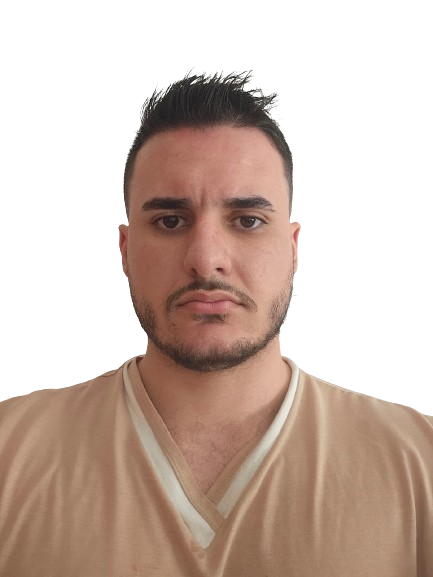
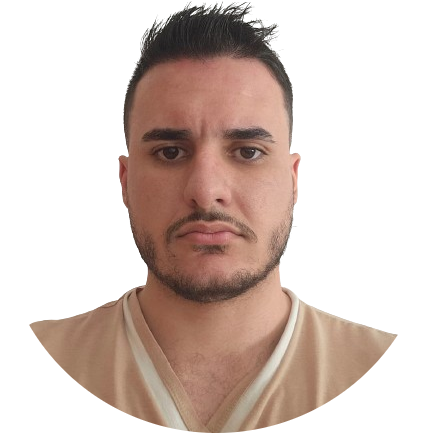
:heavy_plus_sign: Add framer-motion

diff --git a/components/Photo.jsx b/components/Photo.jsx
@@ -1,24 +1,63 @@
 "use client";
 
-// import { motion } from "framer-motion";
-import Image from "next/image";
+import { motion } from "framer-motion";
+import Image from 'next/image'
 
 const Photo = () => {
     return (
         <div className="w-full h-full relative">
-            <motion.div>
-                <div className="w-[298px] h-[298px] xl:w-[48px] xl:h-[498px]">
+            <motion.div
+                initial={{ opacity: 0 }}
+                animate={{
+                    opacity: 1, transition: { delay: 0.4, duration: 0.4, ease: 'easeIn' }
+                }}
+            >
+                {/* image */}
+                <motion.div
+                    initial={{ opacity: 0 }}
+                    animate={{
+                        opacity: 1, transition: { delay: 0.4, duration: 0.4, ease: 'easeInOut' }
+                    }}
+                    className="w-[298px] h-[298px] xl:w-[498px] xl:h-[498px] mix-blend-lighten absolute">
                     <Image
-                        src="assets/photo.png"
+                        src="/assets/photo.png"
                         priority
                         quality={100}
                         fill
                         alt=""
                         className="object-contain"
                     />
-                </div>
+                </motion.div>
+
+                {/* circle */}
+                <motion.svg className="w-[300px] xl:w-[506px] h-[300px] xl:h-[506px]"
+                    fill='transparent'
+                    viewBox="0 0 506 506"
+                    xmlns="http://www.w3.org/2000/svg"
+                >
+                    <motion.circle
+                        cx='253'
+                        cy='253'
+                        r='250'
+                        stroke='#00ff99'
+                        strokeWidth='4'
+                        strokeLinecap='round'
+                        strokeLinejoin='round'
+                        initial={{ strokeDasharray: "24 10 0 0" }}
+                        animate={{
+                            strokeDasharray: ["15 120 25 25", "16 25 92 72", "4 250 22 22"],
+                            rotate: [120, 360],
+                        }}
+                        transition={{
+                            duration: 20,
+                            repeat: Infinity,
+                            repeatType: "reverse",
+                        }}
+                    />
+                </motion.svg>
+
             </motion.div>
-        </div>
+        </div >
     )
 }
 

diff --git a/app/page.jsx b/app/page.jsx
@@ -4,6 +4,7 @@ import { FiDownload } from 'react-icons/fi'
 // Components
 import Social from '@/components/social'
 import Photo from '@/components/photo'
+import Stats from '@/components/stats'
 
 const Home = () => {
   return (
@@ -11,7 +12,7 @@ const Home = () => {
       <div className='container mx-auto'>
         <div className='flex flex-col xl:flex-row items-center justify-between xl:pt-8 xl:pb-24'>
           {/* text */}
-          <div className='text-center xl:text-left'>
+          <div className='text-center xl:text-left order-2 xl:order-none'>
             <span className='text-xl'>Software Developer</span>
             <h1 className='h1 mb-6'>
               Hello I'm <br /><span className='text-accent'>Lucas Franqueira</span>
@@ -34,11 +35,12 @@ const Home = () => {
             </div>
           </div>
           {/* photo */}
-          <div>
-            {/* <Photo/> */}
+          <div className='order-1 xl:order-none mb-8 xl:mb-0'>
+            <Photo/>
           </div>
         </div>
       </div>
+      <Stats/>
     </section>
   )
 }

diff --git a/components/Stats.jsx b/components/Stats.jsx
@@ -1,0 +1,9 @@
+"use client";
+
+const Stats = () => {
+  return (
+    <div>Stats</div>
+  )
+}
+
+export default Stats
